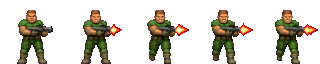
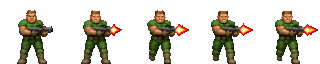
fix: keep the key colour out of prepared sheets
The alpha ramp that keeps a soft edge from being either lost or kept
whole was feeding pinkish pixels into the colour average, so a dark
silhouette came out ringed in purple — 2.2 per cent of the opaque
pixels of the swat skin against 0.6 of the marine, which is why it
survived the first review.

Colour is now taken only from pixels that belong to the silhouette,
while coverage still counts every pixel in the box: a ramp pixel decides
whether the output is drawn, not what colour it is.

Excluding the ramp turned out not to be enough. What was left came from
the source itself: a dark fringe that lies far enough from the
background to pass any distance threshold a real edge also has to pass.
Distance cannot separate the two, but hue can — both are the key colour
mixed with something darker, so red and blue sit well above green and
close to each other. is_key_tinted() says exactly that and is shared by
the two tools: prepare_sheet refuses such pixels a vote on the colour,
check_sheets counts them in a finished file and fails past one per cent.

Also in this change: the coverage denominator counted a source row that
fell outside the object once instead of once per pixel, which inflated
coverage along the top edge of a frame; and a skin's idle frame was
checked twice, once by the directory walk and once by the skin
comparison, reporting any fault in it twice over.

diff --git a/tools/prepare_sheet.c b/tools/prepare_sheet.c
@@ -30,6 +30,9 @@
 #define MAX_BLOBS 16
 #define MAX_OUTS 4
 
+/* How far the colour search widens when the box holds no silhouette pixel */
+#define COLOUR_SEARCH 2
+
 typedef struct {
     int x0, x1, y0, y1;
     int clip_y0;  /* top of the row this blob belongs to */
@@ -331,6 +334,25 @@ static int ensure_dir(const char *path)
     return 0;
 }
 
+/* A ramp pixel is a mix of the silhouette and the background in proportion
+ * to its alpha. With the background known, the original colour comes back
+ * out — which is the only honest thing to do when a detail is so thin that
+ * the box holds no fully opaque pixel at all. */
+static void unmix_background(const unsigned char *c, const unsigned char *bg, int a,
+                             unsigned char *out)
+{
+    for (int k = 0; k < 3; k++) {
+        int v = (c[k] * 255 - bg[k] * (255 - a)) / (a > 0 ? a : 1);
+        if (v < 0) {
+            v = 0;
+        }
+        if (v > 255) {
+            v = 255;
+        }
+        out[k] = (unsigned char)v;
+    }
+}
+
 /* One output frame: box-average the source region that maps onto it, with the
  * colour weighted by alpha so the magenta never bleeds into the edge, then
  * snap coverage to fully opaque or fully transparent. */
@@ -360,40 +382,77 @@ static void render_frame(const Src *s, const Blob *b, int ground, float scale, i
                 iy1 = iy0;
             }
 
-            double sa = 0.0, sr = 0.0, sg = 0.0, sb = 0.0;
+            /* coverage decides whether the pixel is drawn, and every source
+             * pixel in the box has a say in it */
+            double sa = 0.0;
             int cnt = 0;
             for (int y = iy0; y <= iy1; y++) {
-                if (y < 0 || y >= s->h || y < b->clip_y0 || y > ground) {
-                    cnt++;
-                    continue;
-                }
                 for (int x = ix0; x <= ix1; x++) {
-                    if (x < 0 || x >= s->w || x < b->x0 || x > b->x1) {
-                        cnt++;
+                    cnt++;
+                    if (y < 0 || y >= s->h || y < b->clip_y0 || y > ground) {
                         continue;
                     }
-                    size_t i = (size_t)y * s->w + x;
-                    double a = s->alpha[i];
-                    sa += a;
-                    sr += s->rgb[i * 3 + 0] * a;
-                    sg += s->rgb[i * 3 + 1] * a;
-                    sb += s->rgb[i * 3 + 2] * a;
-                    cnt++;
+                    if (x < 0 || x >= s->w || x < b->x0 || x > b->x1) {
+                        continue;
+                    }
+                    sa += s->alpha[(size_t)y * s->w + x];
                 }
             }
 
             unsigned char *p = dst + ((size_t)oy * dst_stride_px + frame_x + ox) * 4;
-            if (cnt > 0 && sa >= 0.5 * cnt * 255.0) {
-                p[0] = (unsigned char)(sr / sa + 0.5);
-                p[1] = (unsigned char)(sg / sa + 0.5);
-                p[2] = (unsigned char)(sb / sa + 0.5);
-                p[3] = 255;
-            } else {
+            if (cnt <= 0 || sa < 0.5 * cnt * 255.0) {
                 p[0] = KEY_R;
                 p[1] = KEY_G;
                 p[2] = KEY_B;
                 p[3] = 0;
+                continue;
             }
+
+            /* colour comes only from pixels that are the silhouette rather
+             * than a mix of it with the background, and the search widens by
+             * a couple of pixels so a one-pixel outline still finds some */
+            long sr = 0, sg = 0, sb = 0;
+            int taken = 0;
+            int best_a = -1;
+            const unsigned char *best = NULL;
+            for (int pass = 0; pass < 2 && taken == 0; pass++) {
+                int m = pass * COLOUR_SEARCH;
+                for (int y = iy0 - m; y <= iy1 + m; y++) {
+                    if (y < 0 || y >= s->h || y < b->clip_y0 || y > ground) {
+                        continue;
+                    }
+                    for (int x = ix0 - m; x <= ix1 + m; x++) {
+                        if (x < 0 || x >= s->w || x < b->x0 || x > b->x1) {
+                            continue;
+                        }
+                        size_t i = (size_t)y * s->w + x;
+                        int a = s->alpha[i];
+                        const unsigned char *c = s->rgb + i * 3;
+                        if (a >= A_TRUSTED && !is_key_tinted(c)) {
+                            sr += c[0];
+                            sg += c[1];
+                            sb += c[2];
+                            taken++;
+                        } else if (a > best_a) {
+                            best_a = a;
+                            best = c;
+                        }
+                    }
+                }
+            }
+
+            if (taken > 0) {
+                p[0] = (unsigned char)(sr / taken);
+                p[1] = (unsigned char)(sg / taken);
+                p[2] = (unsigned char)(sb / taken);
+            } else if (best) {
+                unmix_background(best, s->bg, best_a, p);
+            } else {
+                p[0] = KEY_R;
+                p[1] = KEY_G;
+                p[2] = KEY_B;
+            }
+            p[3] = 255;
         }
     }
 }

diff --git a/tools/check_sheets.c b/tools/check_sheets.c
@@ -27,6 +27,10 @@
 #define SKIN_HEIGHT_TOL 4
 #define SKIN_BOTTOM_TOL 2
 
+/* Share of a picture that may sit on the key colour axis before it counts
+ * as a fringe rather than as art that happens to border on that hue. */
+#define TINT_LIMIT_PCT 1
+
 static int errors = 0;
 static int warnings = 0;
 
@@ -109,7 +113,28 @@ static Silhouette measure_first_frame(const unsigned char *px, int w, int fw, in
     return s;
 }
 
-static void check_file(const char *path, Silhouette *out)
+/* Measure only: walk() has already validated every sheet, and running the
+ * whole check again would report the same fault twice. */
+static Silhouette measure_file(const char *path)
+{
+    Silhouette s = {0, 0, 0};
+    int fw = 0, fh = 0;
+    if (parse_frame_size(path, &fw, &fh) != 0) {
+        return s;
+    }
+    int w = 0, h = 0, comp = 0;
+    unsigned char *px = stbi_load(path, &w, &h, &comp, 4);
+    if (!px) {
+        return s;
+    }
+    if (w % fw == 0 && h % fh == 0) {
+        s = measure_first_frame(px, w, fw, fh);
+    }
+    stbi_image_free(px);
+    return s;
+}
+
+static void check_file(const char *path)
 {
     int fw = 0, fh = 0;
     if (parse_frame_size(path, &fw, &fh) != 0) {
@@ -129,15 +154,21 @@ static void check_file(const char *path, Silhouette *out)
     }
     int cols = w / fw, rows = h / fh;
 
-    int soft = 0, pink = 0;
+    int soft = 0, pink = 0, tinted = 0, opaque = 0;
     unsigned char key[3] = {KEY_R, KEY_G, KEY_B};
     for (size_t i = 0; i < (size_t)w * h; i++) {
         unsigned char a = px[i * 4 + 3];
         if (a != 0 && a != 255) {
             soft++;
         }
-        if (a != 0 && chan_dist(px + i * 4, key) <= TOL_FG) {
+        if (a == 0) {
+            continue;
+        }
+        opaque++;
+        if (chan_dist(px + i * 4, key) <= TOL_FG) {
             pink++;
+        } else if (is_key_tinted(px + i * 4)) {
+            tinted++;
         }
     }
     if (soft) {
@@ -145,6 +176,14 @@ static void check_file(const char *path, Silhouette *out)
     }
     if (pink) {
         fail(path, "%d непрозрачных пикселей близки к фону — розовая кайма", pink);
+    }
+    /* Dark blends of the key colour read as a purple rim around the
+     * silhouette. A handful is unavoidable where the art itself borders on
+     * the key hue; a percent of the picture is a fringe that was averaged in. */
+    if (opaque && tinted * 100 > opaque * TINT_LIMIT_PCT) {
+        fail(path,
+             "%d из %d непрозрачных пикселей на оси ключевого цвета (%.1f%%) — пурпурная кайма",
+             tinted, opaque, 100.0 * tinted / opaque);
     }
 
     /* An opaque pixel on a frame edge means the picture is cropped: fine along
@@ -173,7 +212,7 @@ static void check_file(const char *path, Silhouette *out)
     const char *b = strrchr(path, '/');
     b = b ? b + 1 : path;
     char base[128];
-    snprintf(base, sizeof(base), "%s", b);
+    snprintf(base, sizeof(base), "%.100s", b);
     char *us = strrchr(base, '_');
     if (us) {
         *us = '\0';
@@ -183,9 +222,6 @@ static void check_file(const char *path, Silhouette *out)
         warn(path, "кадров %d, по спецификации ожидалось %d", cols, want);
     }
 
-    if (out) {
-        *out = measure_first_frame(px, w, fw, fh);
-    }
     stbi_image_free(px);
 }
 
@@ -209,7 +245,7 @@ static void walk(const char *dir)
         char path[512];
         snprintf(path, sizeof(path), "%.400s/%.100s", dir, e->d_name);
         if (is_png(e->d_name)) {
-            check_file(path, NULL);
+            check_file(path);
         } else {
             walk(path); /* opendir fails harmlessly on plain files */
         }
@@ -258,8 +294,7 @@ static void check_skins(const char *root)
             if (strcmp(SKIN_ANIMS[a], "idle")) {
                 continue;
             }
-            Silhouette s;
-            check_file(path, &s);
+            Silhouette s = measure_file(path);
             if (!s.ok) {
                 fail(path, "кадр пуст");
                 continue;

diff --git a/tools/sheet_common.h b/tools/sheet_common.h
@@ -21,6 +21,27 @@
 #define TOL_BG 48
 #define TOL_FG 96
 
+/* Alpha at which a source pixel is trusted to carry the real colour of the
+ * silhouette. Everything below it sits on the ramp, which means it is part
+ * background — letting those into the colour average paints a purple rim
+ * around anything dark. They still count towards coverage: they decide
+ * whether the output pixel is drawn, not what colour it is. */
+#define A_TRUSTED 255
+
+/* A pixel sitting on the magenta axis — red and blue both far above green,
+ * and close to each other — is the key colour mixed with something darker,
+ * not a colour anyone drew. Distance alone does not catch these: the dark
+ * end of the fringe lands past any threshold that still keeps a real edge,
+ * yet it is background all the same. The spec forbids the key colour inside
+ * a silhouette, so nothing legitimate is lost by refusing them. */
+static inline int is_key_tinted(const unsigned char *c)
+{
+    int lo = c[0] < c[2] ? c[0] : c[2];
+    int hi = c[0] > c[2] ? c[0] : c[2];
+    int spread = c[0] > c[2] ? c[0] - c[2] : c[2] - c[0];
+    return c[1] * 3 < lo && spread * 4 <= hi;
+}
+
 static inline int chan_dist(const unsigned char *p, const unsigned char *q)
 {
     int dr = p[0] > q[0] ? p[0] - q[0] : q[0] - p[0];

diff --git a/docs/closed_tasks/bug-007-purple-fringe-prepare-sheet.md b/docs/closed_tasks/bug-007-purple-fringe-prepare-sheet.md
@@ -73,3 +73,37 @@
 марин был единственным персонажем, и его 2.2 % на глаз не читаются. Это
 довод в пользу того, чтобы прогонять проверку на каждой новой пачке, а не
 на первой.
+
+## Закрыто
+
+2026-08-22 — исправлено. Цвет кадра собирается только из пикселей, которые
+действительно принадлежат силуэту; покрытие по-прежнему считается по всем.
+Поиск цвета расширяется на пару пикселей (`COLOUR_SEARCH`), чтобы контур в
+один пиксель нашёл, чем закраситься, а если и там ничего нет — цвет
+восстанавливается обратным подмешиванием фона.
+
+Причина оказалась не той, что предполагалась. Отсечь пиксели альфа-рампы
+было мало: доля пурпурящих упала у `swat` с 2.2 % только до 0.7 %.
+Оставшееся давали пиксели самого исходника — тёмная бахрома вроде
+`#8C258D` и `#340338`, которая по расстоянию до фона переваливает за
+`TOL_FG` и попадает в «доверенные». Отличает их не расстояние, а цвет: они
+лежат на оси ключевого цвета, где красный и синий вместе много выше
+зелёного и близки друг к другу. Проверка `is_key_tinted()`
+(`tools/sheet_common.h`) описывает ровно это и общая у обоих инструментов —
+`prepare_sheet` такие пиксели не пускает в цвет, `check_sheets` считает их
+в готовом файле.
+
+Результат по `idle`-кадрам: `marine` 6 пурпурящих пикселей → 0, `swat`
+22 → 0, `swat/death` 52 → 0. Силуэт не изменился.
+
+Попутно в `check_sheets`:
+
+- порог `TINT_LIMIT_PCT` в 1 % от непрозрачных пикселей. Старые файлы
+  `swat` дают 4–6 % и отвергаются, новые — 0.3 % и проходят;
+- `idle` больше не проверяется дважды: обход каталога и проверка скинов
+  сходились на одном файле и печатали одну и ту же ошибку два раза.
+
+В `prepare_sheet` заодно исправлен знаменатель покрытия: строка источника,
+целиком вышедшая за рамку объекта, увеличивала счётчик один раз вместо
+одного раза на пиксель, и у верхнего края кадра покрытие получалось
+завышенным. На готовых ассетах это сдвинуло полпроцента пикселей по краю.

diff --git a/docs/tasks/README.md b/docs/tasks/README.md
@@ -140,7 +140,6 @@
 | [bug-004](bug-004-audio-init-leak.md) | `audio_init()` теряет 8 WAV-буферов при запуске | `audio.c` |
 | [bug-005](bug-005-strafe-speed-fov-scaled.md) | Стрейф медленнее ходьбы в `FOV_PLANE` раз | `player.c` |
 | [bug-006](bug-006-hud-draw-int-digit-order.md) | `draw_int()` рисует цифры HUD в обратном порядке | `hud.c` |
-| [bug-007](bug-007-purple-fringe-prepare-sheet.md) | Пурпурная кайма по контуру после `prepare_sheet` | `tools/` |
 | [chore-001](chore-001-github-actions-ci.md) | CI на трёх платформах через GitHub Actions | `.github/workflows/` |
 | [chore-002](chore-002-dead-ternary-text-width.md) | Убрать неработающий тернарник в `text_width()` | `game.c` |
 | [chore-003](chore-003-const-correctness-lint.md) | Три параметра/переменных без `const` | `game.c`, `item.c`, `map.c` |
@@ -163,3 +162,4 @@
 | [test-001](../closed_tasks/test-001-unit-test-harness.md) | Подключить Unity, покрыть тестами то, что уже тестируемо | Сделано |
 | [feat-001](../closed_tasks/feat-001-file-textures-weapon-enemy.md) | Файловые PNG-текстуры оружия и врагов | Отменена, см. этап 10 |
 | [10-02](../closed_tasks/10-02-sheet-tools.md) | Подготовка и проверка листов кадров | Сделано |
+| [bug-007](../closed_tasks/bug-007-purple-fringe-prepare-sheet.md) | Пурпурная кайма по контуру после `prepare_sheet` | Сделано |
